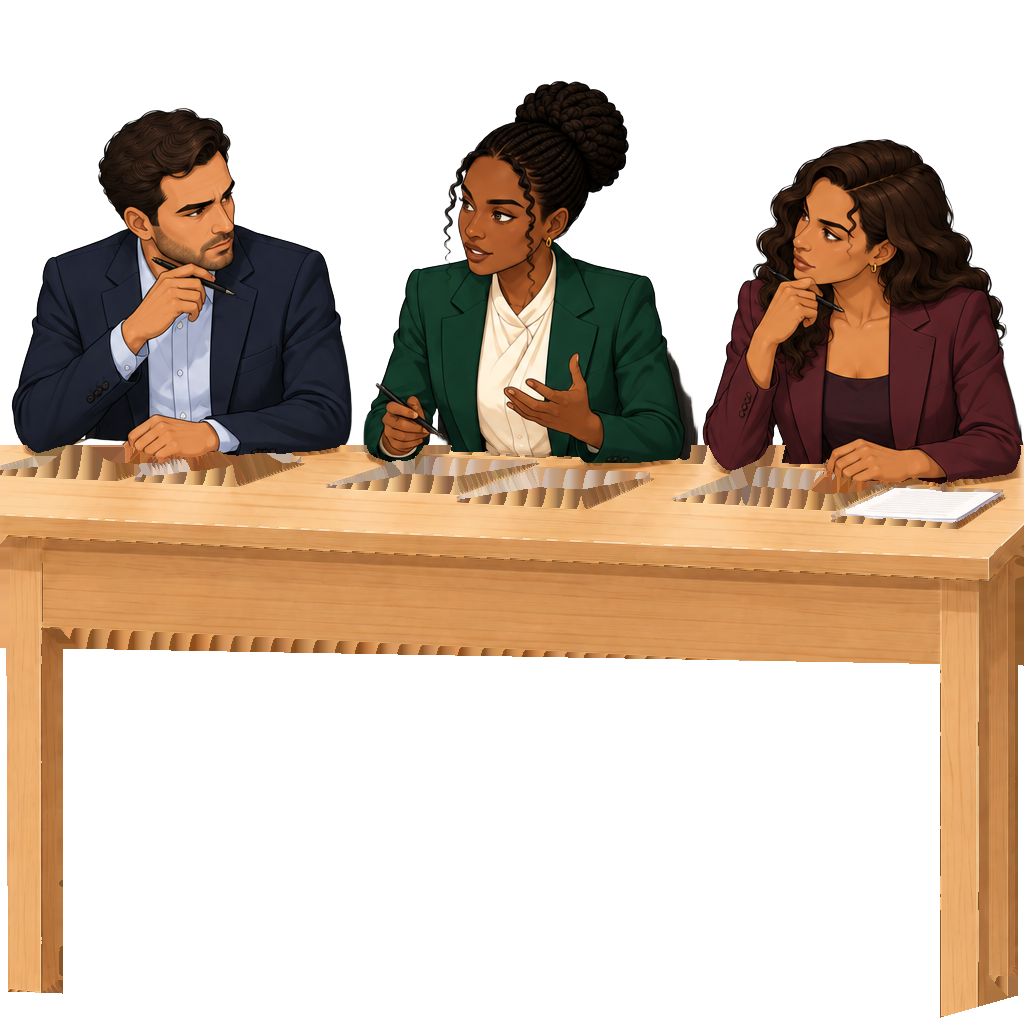
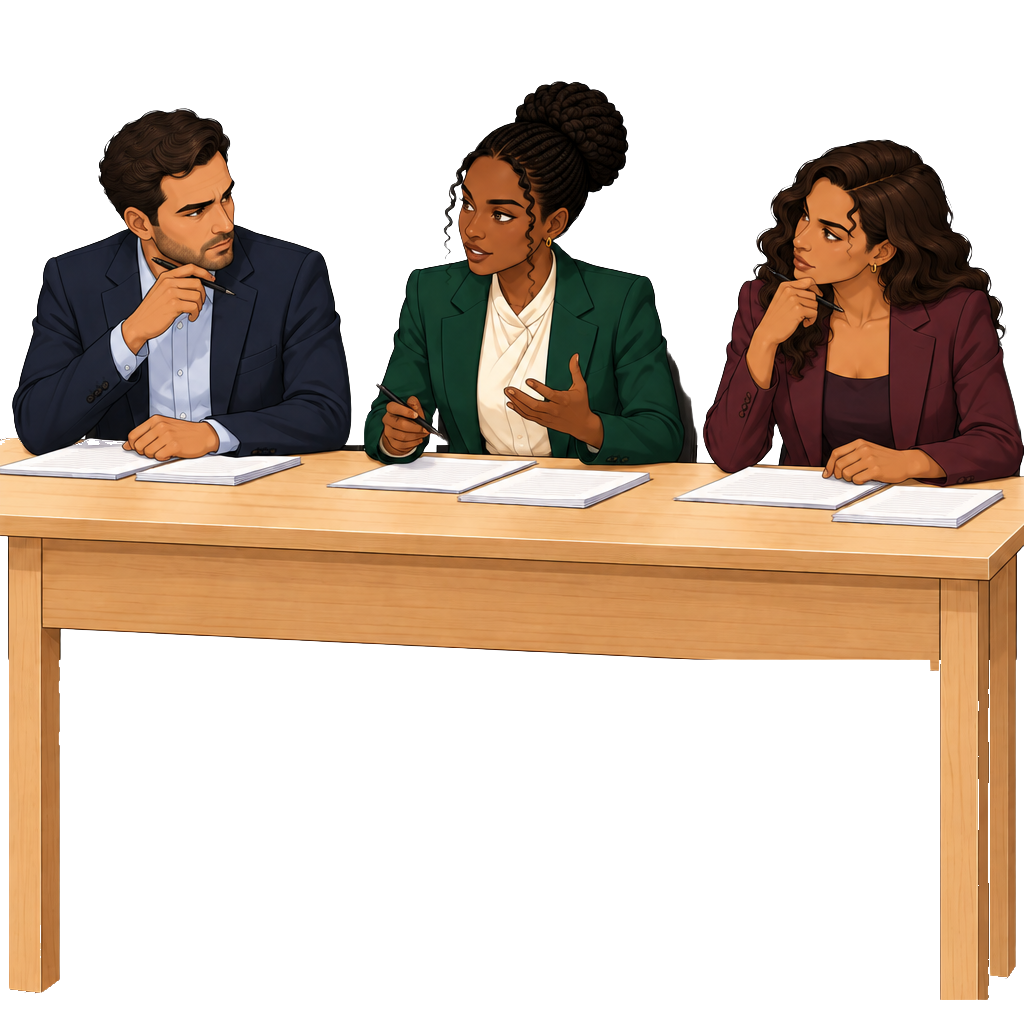
15

diff --git a/ssomtochii-frontend/src/lib/stories/day-fifteen-story.ts b/ssomtochii-frontend/src/lib/stories/day-fifteen-story.ts
@@ -9,6 +9,17 @@ import {
   pose6Walking,
   pose1Neutral,
   pose12ConfidentStandingAlone,
+  thesisPanelDiscussing,
+  thesisPanelMelanieSpeaking,
+  pose7HappyDialogueAlone,
+  thesisPanelReviewing,
+  pose10ExplainingAlone,
+  thesisPanelMelanieHappySpeaking,
+  pose9Laughing,
+  pose9LaughingAlone,
+  speaking,
+  facepalm,
+  pose3ShyAlone,
 } from "./character-poses";
 
 const thesisFirstStory: StoryDefinition = {
@@ -41,15 +52,39 @@ const thesisFirstStory: StoryDefinition = {
       scene: "character",
       background: "/images/backgrounds/lab.jpg",
       characters: [pose12ConfidentStandingAlone],
-      text: "At the lab, Somto sets up her presentation. The panel is seated and ready to assess her work. She takes a breath, looks around the room, and begins. Her voice is steady, her explanations are clear, and she handles the questions with confidence.",
+      text: "At the lab, Somto sets up her presentation, and is ready to get on with it.",
+      next: 20,
+    },
+    {
+      id: 20,
+      type: "narration",
+      scene: "character",
+      characters: [thesisPanelDiscussing],
+      text: "The thesis panel is seated and ready to assess her work, with Melanie sat right in the middle. ",
+      next: 21,
+    },
+    {
+      id: 21,
+      type: "dialogue",
+      scene: "character",
+      speaker: MELANIE,
+      characters: [thesisPanelMelanieSpeaking],
+      text: "Good morning, Somto. Ready when you are.",
+      next: 22,
+    },
+    {
+      id: 22,
+      type: "narration",
+      scene: "character",
+      characters: [pose7HappyDialogueAlone],
+      text: "Somto takes a deep breath and begins her presentation. She is confident, clear, and thorough. She explains her methods, findings, and conclusions with ease.",
       next: 4,
     },
     {
       id: 4,
       type: "narration",
       scene: "character",
-      background: "/images/day-15/thesis-judges.png",
-      characters: [],
+      characters: [thesisPanelReviewing],
       text: "The judges listen closely, taking notes as Somto works through her findings, methods, and conclusions. She has clearly put the hours in, and she gives them a presentation she can be proud of.",
       next: 5,
     },
@@ -58,7 +93,7 @@ const thesisFirstStory: StoryDefinition = {
       type: "dialogue",
       scene: "character",
       speaker: SOMTO,
-      characters: [pose12ConfidentStanding],
+      characters: [pose10ExplainingAlone],
       text: "To conclude, the results support my main argument. I've also outlined the limitations of the study and the areas where further research would be useful. Thank you.",
       next: 6,
     },
@@ -66,9 +101,25 @@ const thesisFirstStory: StoryDefinition = {
       id: 6,
       type: "narration",
       scene: "character",
-      background: "linear-gradient(180deg, #dce7e8 0%, #f7eee5 100%)",
-      characters: [pose8Thinking],
-      text: "The presentation ends. Somto steps outside while the panel deliberates. The wait feels long, but she is not replaying every sentence or wishing she had prepared more. She knows she gave the work her best.",
+      characters: [thesisPanelDiscussing],
+      text: "The presentation ends. Somto steps outside while the panel deliberates. The wait feels long, but she is not replaying every sentence or wishing she had prepared more. She knows she gave the work her best. Time for the result to be revealed.",
+      next: 30,
+    },
+    {
+      id: 30,
+      type: "dialogue",
+      scene: "character",
+      speaker: MELANIE,
+      characters: [thesisPanelMelanieSpeaking],
+      text: "Somto, the panel has reached a decision. Would you like to hear the result now?",
+      next: 31,
+    },
+    {
+      id: 31,
+      type: "narration",
+      scene: "character",
+      characters: [pose7HappyDialogueAlone],
+      text: "Well we all know that Somto loves spoilers. She's never said 'yes' so quickly before.",
       next: 7,
     },
     {
@@ -76,8 +127,8 @@ const thesisFirstStory: StoryDefinition = {
       type: "dialogue",
       scene: "character",
       speaker: MELANIE,
-      characters: [],
-      text: "Somto, congratulations. You did exceptionally well. The panel has agreed on a First. I'm so proud of you. I know how much work you put into this, and you have earned every bit of this result.",
+      characters: [thesisPanelMelanieHappySpeaking],
+      text: "Somto, congratulations! You did exceptionally well. The panel has agreed to award you the highest grade, a 1.",
       next: 8,
     },
     {
@@ -85,15 +136,24 @@ const thesisFirstStory: StoryDefinition = {
       type: "dialogue",
       scene: "character",
       speaker: SOMTO,
-      characters: [smiling],
+      characters: [pose9LaughingAlone],
       text: "A First? Oh my goodness. Thank you, Melanie. I honestly don't even know what to say.",
+      next: 40,
+    },
+    {
+      id: 40,
+      type: "dialogue",
+      scene: "character",
+      speaker: MELANIE,
+      characters: [thesisPanelMelanieSpeaking],
+      text: "I have to say, I'm really proud of you. I know how much work you put into this, and you have earned every bit of this result. Hope you have a great birthday tomorrow, and enjoy the celebrations. You deserve it.",
       next: 9,
     },
     {
       id: 9,
       type: "narration",
       scene: "character",
-      background: "/images/backgrounds/bedroom.png",
+      background: "/images/backgrounds/bedroom-at-night.png",
       characters: [smiling],
       text: "Somto heads home on a high. All those late nights, revisions, and moments of doubt have led to this. She is proud of herself, and she should be. But as the excitement settles, tomorrow comes back to mind. Her birthday venue is still not confirmed. She hopes the space is still available.",
       next: 10,
@@ -103,15 +163,15 @@ const thesisFirstStory: StoryDefinition = {
       type: "dialogue",
       scene: "character",
       speaker: SOMTO,
-      characters: [pose11SeriousConcerned],
-      text: "I got my First. I actually got my First. Please, let that venue still be available tomorrow. I don't want to deal with another problem now.",
+      characters: [facepalm],
+      text: "Please, let that venue still be available tomorrow. I don't want to deal with another problem now.",
       next: 11,
     },
     {
       id: 11,
       type: "end",
       scene: "character",
-      characters: [pose8Thinking],
+      characters: [sitting],
       text: "For tonight, Somto lets herself enjoy the achievement. Tomorrow is her birthday, and she still has one big thing to sort out. She can only hope the venue hasn't been given away.",
     },
   ],
@@ -127,7 +187,7 @@ const partyFirstStory: StoryDefinition = {
       type: "narration",
       scene: "character",
       background: "/images/backgrounds/bedroom.png",
-      characters: [pose11SeriousConcerned],
+      characters: [facepalm],
       text: "Today is the big day. Somto has her thesis presentation, but she wakes up with a knot in her stomach. Yesterday, she spent the time securing her birthday venue, leaving less time than she wanted for her final thesis preparations. She knows her work, but she is worried she has not done enough to earn the result she hoped for.",
       next: 2,
     },
@@ -135,27 +195,52 @@ const partyFirstStory: StoryDefinition = {
       id: 2,
       type: "dialogue",
       scene: "character",
+      background: "/images/backgrounds/road.jpg",
       speaker: SOMTO,
-      characters: [pose8Thinking],
-      text: "I should have had more time. I know my project, but there are parts I wish I'd been able to explain better. I need to pull myself together.",
+      characters: [pose6Walking],
+      text: "I really wish I had more time. I know my stuff, but there are parts I'm shaky on. I need to pull myself together.",
       next: 3,
     },
     {
       id: 3,
       type: "narration",
       scene: "character",
-      background: "linear-gradient(180deg, #dce7e8 0%, #f7eee5 100%)",
-      characters: [pose11SeriousConcerned],
-      text: "At the lab, Somto sets up her presentation. The judges are ready, and she begins. She gets through the opening, but her confidence keeps slipping. She loses her train of thought once, rushes through an explanation, and struggles to give as much detail as she wanted.",
+      background: "/images/backgrounds/lab.jpg",
+      characters: [pose3ShyAlone],
+      text: "At the lab, Somto sets up her presentation, and is ready to get on with it. She's lacking a fair bit of confidence, but it's now or never.",
+      next: 20,
+    },
+    {
+      id: 20,
+      type: "narration",
+      scene: "character",
+      characters: [thesisPanelDiscussing],
+      text: "The thesis panel is seated and ready to assess her work, with Melanie sat right in the middle. ",
+      next: 21,
+    },
+    {
+      id: 21,
+      type: "dialogue",
+      scene: "character",
+      speaker: MELANIE,
+      characters: [thesisPanelMelanieSpeaking],
+      text: "Good morning, Somto. Ready when you are.",
+      next: 22,
+    },
+    {
+      id: 22,
+      type: "narration",
+      scene: "character",
+      characters: [pose7HappyDialogueAlone],
+      text: "Somto takes a deep breath and begins her presentation. She gets through the opening, but her confidence keeps slipping. She loses her train of thought once, rushes through an explanation, and struggles to give as much detail as she wanted in some cases.",
       next: 4,
     },
     {
       id: 4,
       type: "narration",
       scene: "character",
-      background: "/images/day-15/thesis-judges.png",
-      characters: [],
-      text: "The panel listens and takes notes. Somto answers the questions, but a few answers come out less clearly than she intended. She knows there were points she should have explained more fully.",
+      characters: [thesisPanelReviewing],
+      text: "The judges listen closely, taking notes as Somto works through her findings, methods, and conclusions. They ask Somto some questions, and Somto answers them, but a few answers come out less clearly than she intended.",
       next: 5,
     },
     {
@@ -163,7 +248,7 @@ const partyFirstStory: StoryDefinition = {
       type: "dialogue",
       scene: "character",
       speaker: SOMTO,
-      characters: [pose11SeriousConcerned],
+      characters: [pose10ExplainingAlone],
       text: "I think that covers the main points. I would have liked to go into more detail on the limitations and the analysis, but thank you for your time.",
       next: 6,
     },
@@ -171,9 +256,25 @@ const partyFirstStory: StoryDefinition = {
       id: 6,
       type: "narration",
       scene: "character",
-      background: "linear-gradient(180deg, #dce7e8 0%, #f7eee5 100%)",
-      characters: [pose8Thinking],
-      text: "The presentation ends. Somto waits outside while the judges deliberate. The discussion takes longer than she expected. When Melanie finally comes out, her expression is thoughtful.",
+      characters: [thesisPanelDiscussing],
+      text: "The presentation ends. Somto waits outside while the judges deliberate. The discussion takes longer than she expected. Time for the results to be revealed.",
+      next: 30,
+    },
+    {
+      id: 30,
+      type: "dialogue",
+      scene: "character",
+      speaker: MELANIE,
+      characters: [thesisPanelMelanieSpeaking],
+      text: "Somto, unfortunately the panel has not been able to reach a unified decision today. We need a little more time to agree on the assessment.",
+      next: 31,
+    },
+    {
+      id: 31,
+      type: "narration",
+      scene: "character",
+      characters: [pose3ShyAlone],
+      text: "Well damn. That cant be good, can it?",
       next: 7,
     },
     {
@@ -181,26 +282,25 @@ const partyFirstStory: StoryDefinition = {
       type: "dialogue",
       scene: "character",
       speaker: MELANIE,
-      characters: [],
-      text: "Somto, the panel has not been able to reach a unified decision today. We need a little more time to agree on the assessment. You'll receive your result tomorrow.",
+      characters: [thesisPanelMelanieHappySpeaking],
+      text: "We're sure you would've loved to hear it now, but you'll receive your result tomorrow. We apologise for the inconvenience.",
       next: 8,
     },
     {
       id: 8,
-      type: "dialogue",
+      type: "narration",
       scene: "character",
-      speaker: SOMTO,
-      characters: [pose11SeriousConcerned],
-      text: "Tomorrow? Okay. I understand. I just wish I knew where I stood.",
+      background: "/images/backgrounds/bedroom-at-night.png",
+      characters: [facepalm],
+      text: "Somto heads home worried. She keeps thinking about the answers she rushed and the details she left out.",
       next: 9,
     },
     {
       id: 9,
       type: "narration",
       scene: "character",
-      background: "/images/backgrounds/bedroom.png",
-      characters: [pose11SeriousConcerned],
-      text: "Somto heads home worried. She keeps thinking about the answers she rushed and the details she left out. Still, the birthday plans are looking good. The venue is secured, and everything is coming together for tomorrow. She decides to put the result out of her mind for tonight and focus on her birthday.",
+      characters: [sitting],
+      text: "Well on the bright side, her birthday plans are looking good. The venue is secured, and everything is coming together for tomorrow. She decides to put the result out of her mind for tonight and focus on her birthday.",
       next: 10,
     },
     {
@@ -208,15 +308,15 @@ const partyFirstStory: StoryDefinition = {
       type: "dialogue",
       scene: "character",
       speaker: SOMTO,
-      characters: [sitting],
-      text: "There's nothing I can do about the result tonight. The party is sorted, and tomorrow is my birthday. I'm going to enjoy that. I'll deal with the grade when I know.",
+      characters: [smiling],
+      text: "Well there's nothing I can do about that result tonight. I just need to focus on tomorrow and enjoy my birthday. I'll deal with the grade when I know.",
       next: 11,
     },
     {
       id: 11,
       type: "end",
       scene: "character",
-      characters: [smiling],
+      characters: [sitting],
       text: "The worry has not disappeared, but Somto chooses not to let it take over the evening. Her birthday plans are ready, and for now, she wants to look forward to tomorrow.",
     },
   ],

diff --git a/ssomtochii-frontend/src/lib/stories/character-poses.ts b/ssomtochii-frontend/src/lib/stories/character-poses.ts
@@ -56,6 +56,9 @@ export const pose9Laughing: StoryCharacter = {
   scale: 2,
   offsetY: 20,
 };
+export const pose9LaughingAlone: StoryCharacter = {
+  ...pose("pose-9-laughing", "pose-9-laughing", "Somto laughing"),
+};
 export const pose10Explaining: StoryCharacter = {
   ...pose("pose-10-explaining", "pose-10-explaining", "Somto explaining something"),
   scale: 1.8,
@@ -198,26 +201,46 @@ export const pose11SeriousConcernedAloneDay16 = day16Pose("pose-11-serious-conce
 const thesisPanelPose = (id: string, filename: string, alt: string): StoryCharacter => ({
   id,
   name: "Thesis Panel",
-  image: "/images/day-15/" + filename + ".png",
+  image: "/images/character-reference/Judges/" + filename + ".png",
   position: "center",
   alt,
 });
 
-export const thesisPanelReviewing = thesisPanelPose(
+export const thesisPanelReviewing: StoryCharacter = {
+  ...thesisPanelPose(
   "thesis-panel-reviewing",
   "thesis-panel-reviewing",
   "The three thesis judges reviewing Somto's presentation and writing notes at the table",
-);
+),
+  offsetY: 30,
+}
 
-export const thesisPanelDiscussing = thesisPanelPose(
-  "thesis-panel-discussing",
-  "thesis-panel-discussing",
-  "The three thesis judges discussing Somto's presentation around the table",
-);
+export const thesisPanelDiscussing: StoryCharacter = {
+  ...thesisPanelPose(
+    "thesis-panel-discussing",
+    "thesis-panel-discussing",
+    "The three thesis judges discussing Somto's presentation around the table",
+  ),
+  offsetY: 30,
+};
 
-export const thesisPanelMelanieSpeaking = thesisPanelPose(
-  "thesis-panel-melanie-speaking",
-  "thesis-panel-melanie-speaking",
-  "Melanie speaking while the other two thesis judges listen at the table",
-);
+export const thesisPanelMelanieSpeaking: StoryCharacter = {
+  ...thesisPanelPose(
+    "thesis-panel-melanie-speaking",
+    "thesis-panel-melanie-speaking",
+    "Melanie speaking while the other two thesis judges listen at the table",
+  ),
+  scale: 2.2,
+  offsetY: 130,
+};
+
+export const thesisPanelMelanieHappySpeaking: StoryCharacter = {
+  ...thesisPanelPose(
+    "thesis-panel-discussing",
+    "thesis-panel-discussing",
+    "The three thesis judges discussing Somto's presentation around the table",
+  ),
+  scale: 2.2,
+  offsetY: 130,
+};
 
